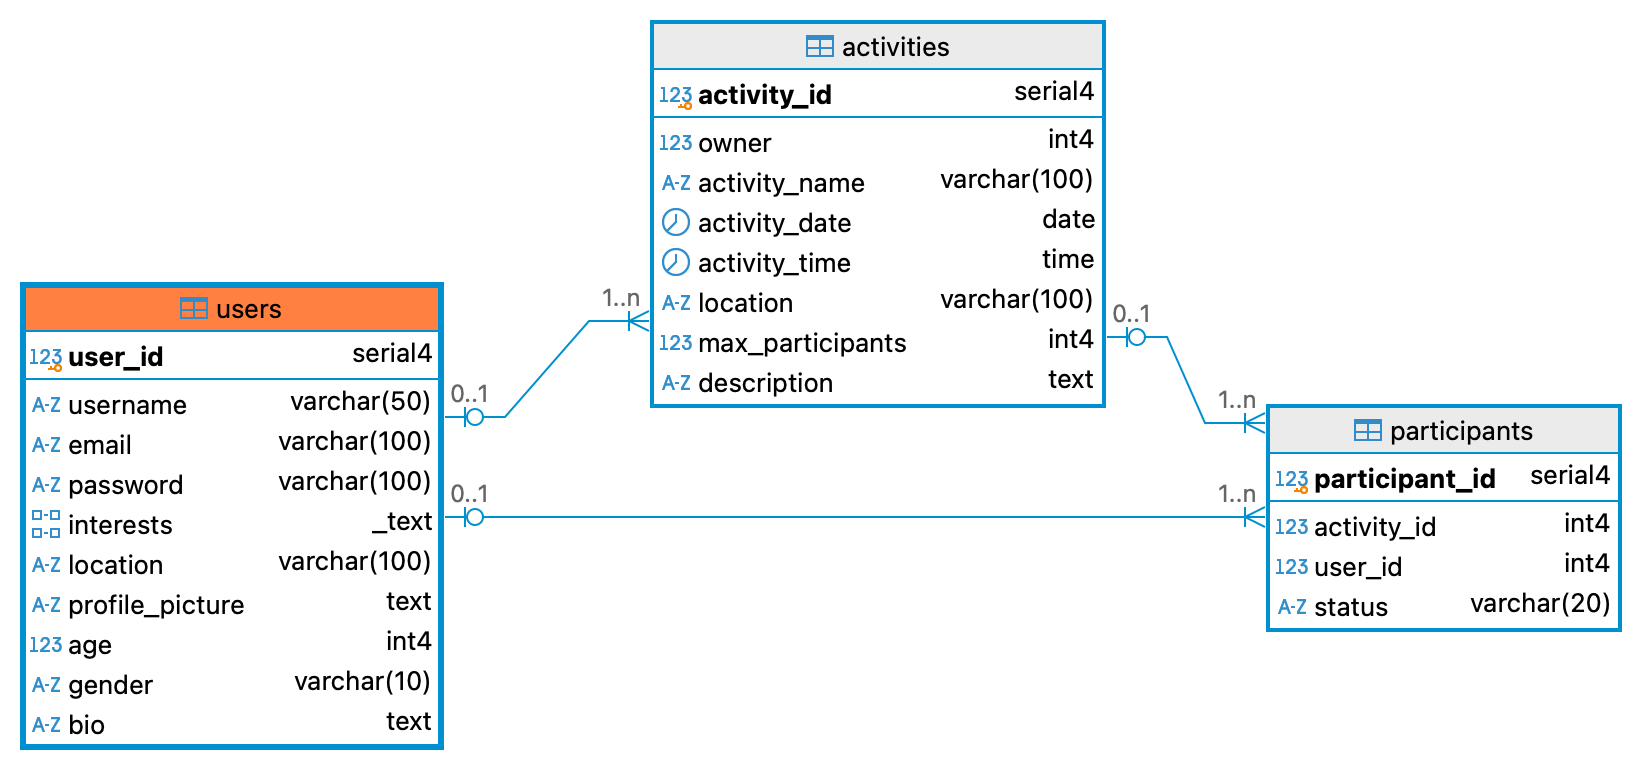
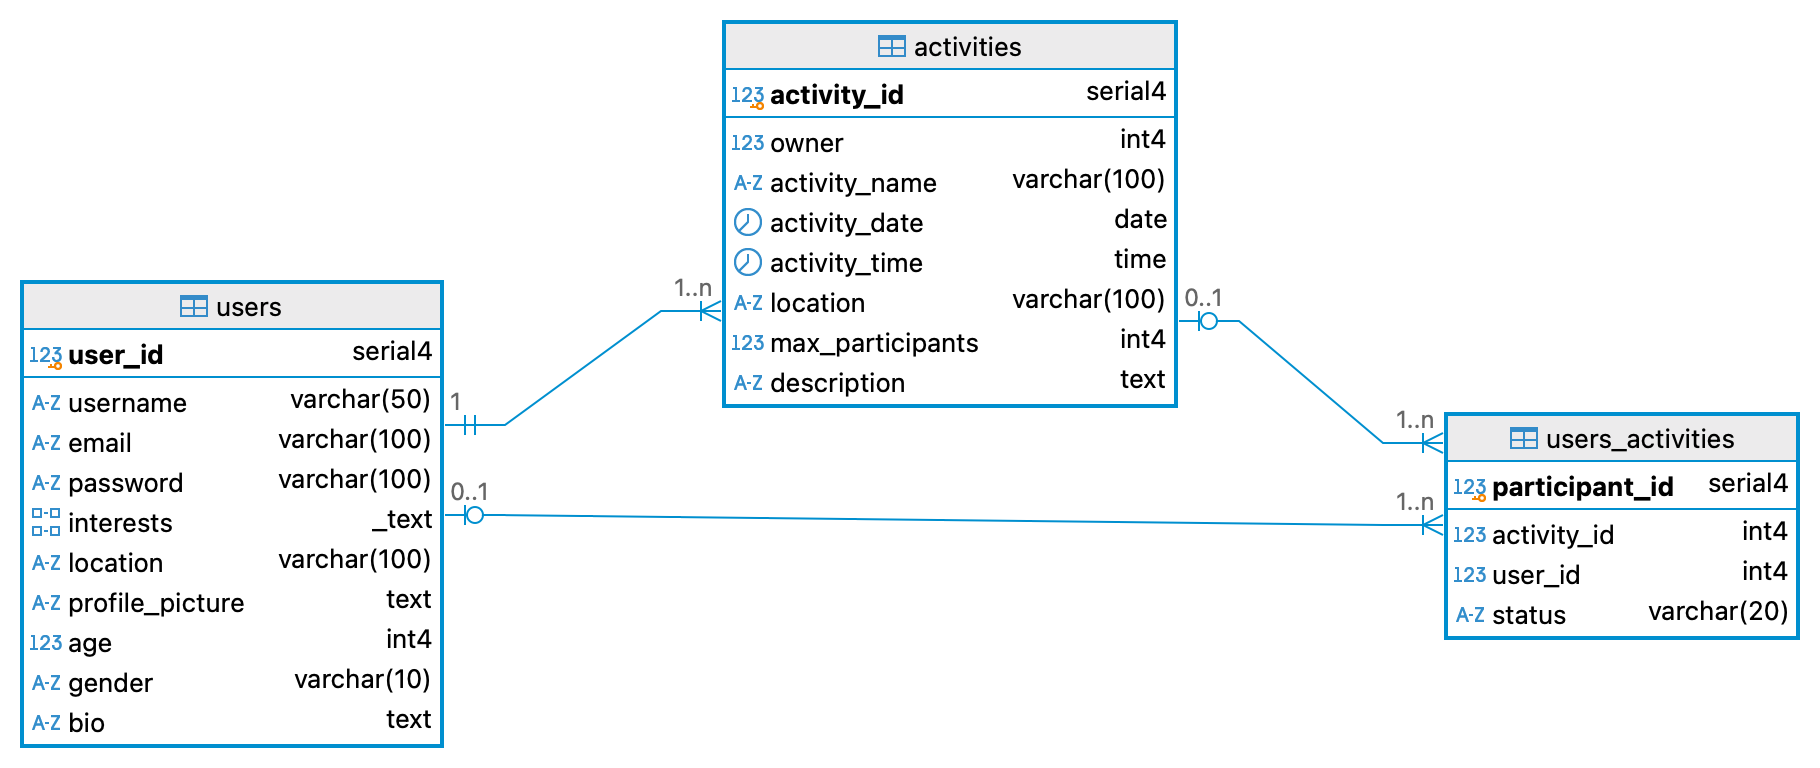
ref task_07

diff --git a/Kolykhalova_Elena/task_07_ERD/task_07_ERD_описание связей.md b/Kolykhalova_Elena/task_07_ERD/task_07_ERD_описание связей.md
@@ -10,7 +10,7 @@
      - owner в таблице activities — это внешний ключ, который ссылается на user_id в таблице users.
 
    ```users.user_id (PK) <--- activities.owner (FK)```
-2. #### Активность (activities) и Участники (participants):
+2. #### Активность (activities) и Участники (users_activities):
 
 
    - Связь: Один к многим (One-to-Many)
@@ -20,8 +20,8 @@
      - activity_id в таблице participants — это внешний ключ,
        который ссылается на activity_id в таблице activities.
 
-   ```activities.activity_id (PK) <--- participants.activity_id (FK)```
-3. #### Пользователь (users) и Список участников (participants):
+   ```activities.activity_id (PK) <--- users_activities.activity_id (FK)```
+3. #### Пользователь (users) и Участники (users_activities):
 
 
    - Связь: Один к многим (One-to-Many)
@@ -30,4 +30,4 @@
    - Внешний ключ в таблице участников:
      - user_id в таблице participants — это внешний ключ, который ссылается на user_id в таблице users.
 
-   ```users.user_id (PK) <--- participants.user_id (FK)```
+   ```users.user_id (PK) <--- users_activities.user_id (FK)```
